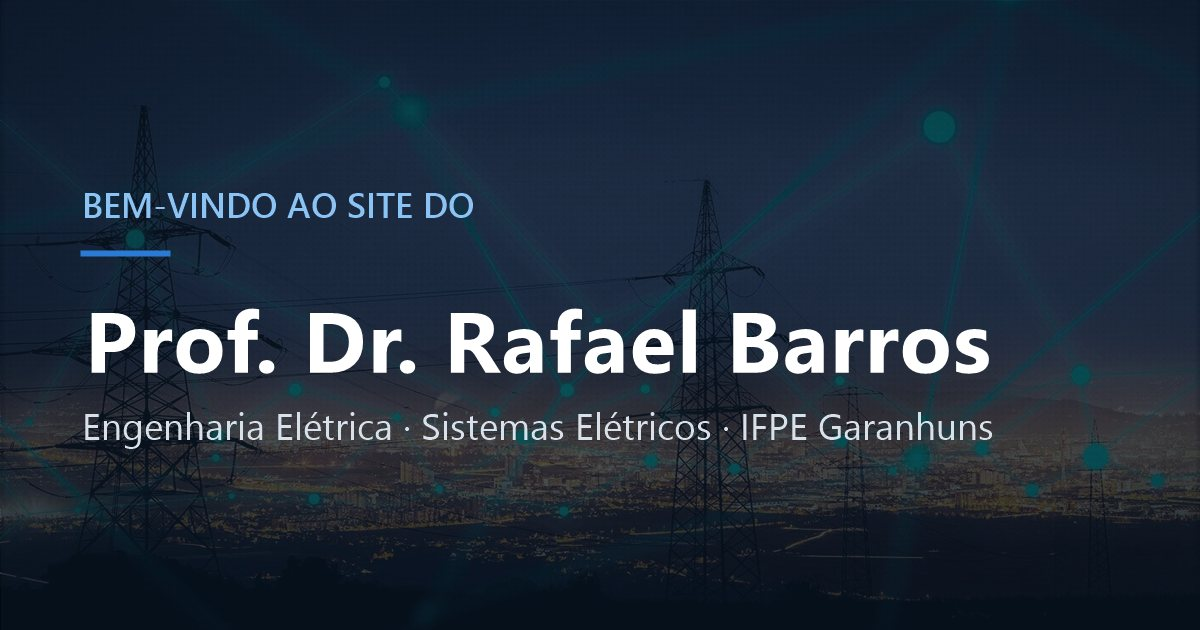
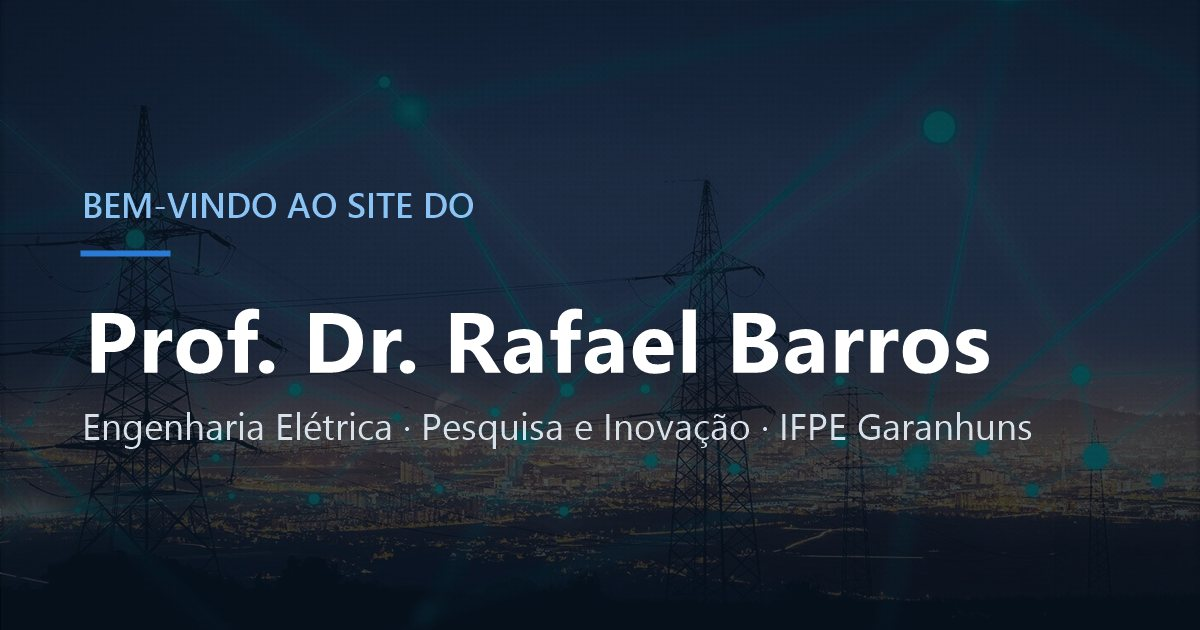
Atualiza imagem de compartilhamento: Pesquisa e Inovação

Changed region(s): [[0.3392, 0.6333, 0.8633, 0.7238]]

diff --git a/index.html b/index.html
@@ -16,13 +16,13 @@
 <meta property="og:title" content="Prof. Rafael Barros — Engenharia Elétrica">
 <meta property="og:description" content="Site pessoal do Prof. Dr. Rafael Mendonça Rocha Barros, professor de Engenharia Elétrica do IFPE campus Garanhuns, pesquisador em sistemas elétricos de potência.">
 <meta property="og:url" content="https://prof-rafaelbarros.github.io/site/">
-<meta property="og:image" content="https://prof-rafaelbarros.github.io/site/assets/img/og-image.jpg">
+<meta property="og:image" content="https://prof-rafaelbarros.github.io/site/assets/img/og-image.jpg?v=2">
 <meta property="og:image:width" content="1200">
 <meta property="og:image:height" content="630">
 <meta name="twitter:card" content="summary_large_image">
 <meta name="twitter:title" content="Prof. Rafael Barros — Engenharia Elétrica">
 <meta name="twitter:description" content="Site pessoal do Prof. Dr. Rafael Mendonça Rocha Barros, professor de Engenharia Elétrica do IFPE campus Garanhuns, pesquisador em sistemas elétricos de potência.">
-<meta name="twitter:image" content="https://prof-rafaelbarros.github.io/site/assets/img/og-image.jpg">
+<meta name="twitter:image" content="https://prof-rafaelbarros.github.io/site/assets/img/og-image.jpg?v=2">
 <link rel="icon" href="assets/img/favicon.svg" type="image/svg+xml">
 <link rel="alternate icon" href="assets/img/favicon.png" type="image/png">
 <link rel="preconnect" href="https://fonts.googleapis.com">

diff --git a/pesquisa.html b/pesquisa.html
@@ -15,13 +15,13 @@
 <meta property="og:title" content="Pesquisa — Prof. Rafael Barros">
 <meta property="og:description" content="Pesquisa do Prof. Rafael Barros: Grupo de Pesquisa em Sistemas Elétricos (GSEL), publicações e produtos tecnológicos.">
 <meta property="og:url" content="https://prof-rafaelbarros.github.io/site/pesquisa.html">
-<meta property="og:image" content="https://prof-rafaelbarros.github.io/site/assets/img/og-image.jpg">
+<meta property="og:image" content="https://prof-rafaelbarros.github.io/site/assets/img/og-image.jpg?v=2">
 <meta property="og:image:width" content="1200">
 <meta property="og:image:height" content="630">
 <meta name="twitter:card" content="summary_large_image">
 <meta name="twitter:title" content="Pesquisa — Prof. Rafael Barros">
 <meta name="twitter:description" content="Pesquisa do Prof. Rafael Barros: Grupo de Pesquisa em Sistemas Elétricos (GSEL), publicações e produtos tecnológicos.">
-<meta name="twitter:image" content="https://prof-rafaelbarros.github.io/site/assets/img/og-image.jpg">
+<meta name="twitter:image" content="https://prof-rafaelbarros.github.io/site/assets/img/og-image.jpg?v=2">
 <link rel="icon" href="assets/img/favicon.svg" type="image/svg+xml">
 <link rel="alternate icon" href="assets/img/favicon.png" type="image/png">
 <link rel="preconnect" href="https://fonts.googleapis.com">

diff --git a/orientacoes.html b/orientacoes.html
@@ -15,13 +15,13 @@
 <meta property="og:title" content="Orientações — Prof. Rafael Barros">
 <meta property="og:description" content="Templates, tutoriais, congressos, periódicos e eventos recomendados aos orientandos do Prof. Rafael Barros.">
 <meta property="og:url" content="https://prof-rafaelbarros.github.io/site/orientacoes.html">
-<meta property="og:image" content="https://prof-rafaelbarros.github.io/site/assets/img/og-image.jpg">
+<meta property="og:image" content="https://prof-rafaelbarros.github.io/site/assets/img/og-image.jpg?v=2">
 <meta property="og:image:width" content="1200">
 <meta property="og:image:height" content="630">
 <meta name="twitter:card" content="summary_large_image">
 <meta name="twitter:title" content="Orientações — Prof. Rafael Barros">
 <meta name="twitter:description" content="Templates, tutoriais, congressos, periódicos e eventos recomendados aos orientandos do Prof. Rafael Barros.">
-<meta name="twitter:image" content="https://prof-rafaelbarros.github.io/site/assets/img/og-image.jpg">
+<meta name="twitter:image" content="https://prof-rafaelbarros.github.io/site/assets/img/og-image.jpg?v=2">
 <link rel="icon" href="assets/img/favicon.svg" type="image/svg+xml">
 <link rel="alternate icon" href="assets/img/favicon.png" type="image/png">
 <link rel="preconnect" href="https://fonts.googleapis.com">

diff --git a/gsel.html b/gsel.html
@@ -15,13 +15,13 @@
 <meta property="og:title" content="GSEL — Prof. Rafael Barros">
 <meta property="og:description" content="O Prof. Dr. Rafael Barros lidera o Grupo de Pesquisa em Sistemas Elétricos (GSEL) do IFPE campus Garanhuns desde 2022.">
 <meta property="og:url" content="https://prof-rafaelbarros.github.io/site/gsel.html">
-<meta property="og:image" content="https://prof-rafaelbarros.github.io/site/assets/img/og-image.jpg">
+<meta property="og:image" content="https://prof-rafaelbarros.github.io/site/assets/img/og-image.jpg?v=2">
 <meta property="og:image:width" content="1200">
 <meta property="og:image:height" content="630">
 <meta name="twitter:card" content="summary_large_image">
 <meta name="twitter:title" content="GSEL — Prof. Rafael Barros">
 <meta name="twitter:description" content="O Prof. Dr. Rafael Barros lidera o Grupo de Pesquisa em Sistemas Elétricos (GSEL) do IFPE campus Garanhuns desde 2022.">
-<meta name="twitter:image" content="https://prof-rafaelbarros.github.io/site/assets/img/og-image.jpg">
+<meta name="twitter:image" content="https://prof-rafaelbarros.github.io/site/assets/img/og-image.jpg?v=2">
 <link rel="icon" href="assets/img/favicon.svg" type="image/svg+xml">
 <link rel="alternate icon" href="assets/img/favicon.png" type="image/png">
 <link rel="preconnect" href="https://fonts.googleapis.com">

diff --git a/publicacoes.html b/publicacoes.html
@@ -15,13 +15,13 @@
 <meta property="og:title" content="Publicações — Prof. Rafael Barros">
 <meta property="og:description" content="Livros, artigos em revistas científicas e trabalhos em anais de congressos do Prof. Rafael Barros.">
 <meta property="og:url" content="https://prof-rafaelbarros.github.io/site/publicacoes.html">
-<meta property="og:image" content="https://prof-rafaelbarros.github.io/site/assets/img/og-image.jpg">
+<meta property="og:image" content="https://prof-rafaelbarros.github.io/site/assets/img/og-image.jpg?v=2">
 <meta property="og:image:width" content="1200">
 <meta property="og:image:height" content="630">
 <meta name="twitter:card" content="summary_large_image">
 <meta name="twitter:title" content="Publicações — Prof. Rafael Barros">
 <meta name="twitter:description" content="Livros, artigos em revistas científicas e trabalhos em anais de congressos do Prof. Rafael Barros.">
-<meta name="twitter:image" content="https://prof-rafaelbarros.github.io/site/assets/img/og-image.jpg">
+<meta name="twitter:image" content="https://prof-rafaelbarros.github.io/site/assets/img/og-image.jpg?v=2">
 <link rel="icon" href="assets/img/favicon.svg" type="image/svg+xml">
 <link rel="alternate icon" href="assets/img/favicon.png" type="image/png">
 <link rel="preconnect" href="https://fonts.googleapis.com">

diff --git a/sobre.html b/sobre.html
@@ -15,13 +15,13 @@
 <meta property="og:title" content="Sobre o Professor — Prof. Rafael Barros">
 <meta property="og:description" content="Minicurrículo e perfis acadêmicos do Prof. Dr. Rafael Mendonça Rocha Barros (IFPE).">
 <meta property="og:url" content="https://prof-rafaelbarros.github.io/site/sobre.html">
-<meta property="og:image" content="https://prof-rafaelbarros.github.io/site/assets/img/og-image.jpg">
+<meta property="og:image" content="https://prof-rafaelbarros.github.io/site/assets/img/og-image.jpg?v=2">
 <meta property="og:image:width" content="1200">
 <meta property="og:image:height" content="630">
 <meta name="twitter:card" content="summary_large_image">
 <meta name="twitter:title" content="Sobre o Professor — Prof. Rafael Barros">
 <meta name="twitter:description" content="Minicurrículo e perfis acadêmicos do Prof. Dr. Rafael Mendonça Rocha Barros (IFPE).">
-<meta name="twitter:image" content="https://prof-rafaelbarros.github.io/site/assets/img/og-image.jpg">
+<meta name="twitter:image" content="https://prof-rafaelbarros.github.io/site/assets/img/og-image.jpg?v=2">
 <link rel="icon" href="assets/img/favicon.svg" type="image/svg+xml">
 <link rel="alternate icon" href="assets/img/favicon.png" type="image/png">
 <link rel="preconnect" href="https://fonts.googleapis.com">

diff --git a/produtos.html b/produtos.html
@@ -15,13 +15,13 @@
 <meta property="og:title" content="Produtos Tecnológicos — Prof. Rafael Barros">
 <meta property="og:description" content="Programas de computador e patentes do Prof. Rafael Barros registrados no INPI.">
 <meta property="og:url" content="https://prof-rafaelbarros.github.io/site/produtos.html">
-<meta property="og:image" content="https://prof-rafaelbarros.github.io/site/assets/img/og-image.jpg">
+<meta property="og:image" content="https://prof-rafaelbarros.github.io/site/assets/img/og-image.jpg?v=2">
 <meta property="og:image:width" content="1200">
 <meta property="og:image:height" content="630">
 <meta name="twitter:card" content="summary_large_image">
 <meta name="twitter:title" content="Produtos Tecnológicos — Prof. Rafael Barros">
 <meta name="twitter:description" content="Programas de computador e patentes do Prof. Rafael Barros registrados no INPI.">
-<meta name="twitter:image" content="https://prof-rafaelbarros.github.io/site/assets/img/og-image.jpg">
+<meta name="twitter:image" content="https://prof-rafaelbarros.github.io/site/assets/img/og-image.jpg?v=2">
 <link rel="icon" href="assets/img/favicon.svg" type="image/svg+xml">
 <link rel="alternate icon" href="assets/img/favicon.png" type="image/png">
 <link rel="preconnect" href="https://fonts.googleapis.com">

diff --git a/ensino.html b/ensino.html
@@ -15,13 +15,13 @@
 <meta property="og:title" content="Ensino — Prof. Rafael Barros">
 <meta property="og:description" content="Disciplinas ministradas e atendimento aos discentes do Prof. Rafael Barros no IFPE Garanhuns.">
 <meta property="og:url" content="https://prof-rafaelbarros.github.io/site/ensino.html">
-<meta property="og:image" content="https://prof-rafaelbarros.github.io/site/assets/img/og-image.jpg">
+<meta property="og:image" content="https://prof-rafaelbarros.github.io/site/assets/img/og-image.jpg?v=2">
 <meta property="og:image:width" content="1200">
 <meta property="og:image:height" content="630">
 <meta name="twitter:card" content="summary_large_image">
 <meta name="twitter:title" content="Ensino — Prof. Rafael Barros">
 <meta name="twitter:description" content="Disciplinas ministradas e atendimento aos discentes do Prof. Rafael Barros no IFPE Garanhuns.">
-<meta name="twitter:image" content="https://prof-rafaelbarros.github.io/site/assets/img/og-image.jpg">
+<meta name="twitter:image" content="https://prof-rafaelbarros.github.io/site/assets/img/og-image.jpg?v=2">
 <link rel="icon" href="assets/img/favicon.svg" type="image/svg+xml">
 <link rel="alternate icon" href="assets/img/favicon.png" type="image/png">
 <link rel="preconnect" href="https://fonts.googleapis.com">

diff --git a/contato.html b/contato.html
@@ -15,13 +15,13 @@
 <meta property="og:title" content="Contato — Prof. Rafael Barros">
 <meta property="og:description" content="Telefone, e-mail e endereço do Prof. Rafael Barros no LabSEL, IFPE campus Garanhuns.">
 <meta property="og:url" content="https://prof-rafaelbarros.github.io/site/contato.html">
-<meta property="og:image" content="https://prof-rafaelbarros.github.io/site/assets/img/og-image.jpg">
+<meta property="og:image" content="https://prof-rafaelbarros.github.io/site/assets/img/og-image.jpg?v=2">
 <meta property="og:image:width" content="1200">
 <meta property="og:image:height" content="630">
 <meta name="twitter:card" content="summary_large_image">
 <meta name="twitter:title" content="Contato — Prof. Rafael Barros">
 <meta name="twitter:description" content="Telefone, e-mail e endereço do Prof. Rafael Barros no LabSEL, IFPE campus Garanhuns.">
-<meta name="twitter:image" content="https://prof-rafaelbarros.github.io/site/assets/img/og-image.jpg">
+<meta name="twitter:image" content="https://prof-rafaelbarros.github.io/site/assets/img/og-image.jpg?v=2">
 <link rel="icon" href="assets/img/favicon.svg" type="image/svg+xml">
 <link rel="alternate icon" href="assets/img/favicon.png" type="image/png">
 <link rel="preconnect" href="https://fonts.googleapis.com">
